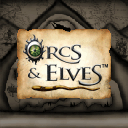
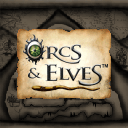
Update LiveArea assets for OE1

diff --git a/tools/build_livearea.py b/tools/build_livearea.py
@@ -146,7 +146,10 @@ def build_livearea_assets(bar_path: Path, output_dir: Path, game: str = None):
 
     def render_canvas(cw: int, ch: int, logo_scale: int, draw_logo: bool = True):
         crop_h = min(map_h, max(1, round(map_w * ch / cw)))
-        crop_y = max(0, min(map_h - crop_h, 255 - crop_h // 2))
+        if is_oe1:
+            crop_y = max(0, (map_h - crop_h) // 2)
+        else:
+            crop_y = max(0, min(map_h - crop_h, 255 - crop_h // 2))
         rows = []
         for y in range(ch):
             sy = crop_y + (y * crop_h // ch)
